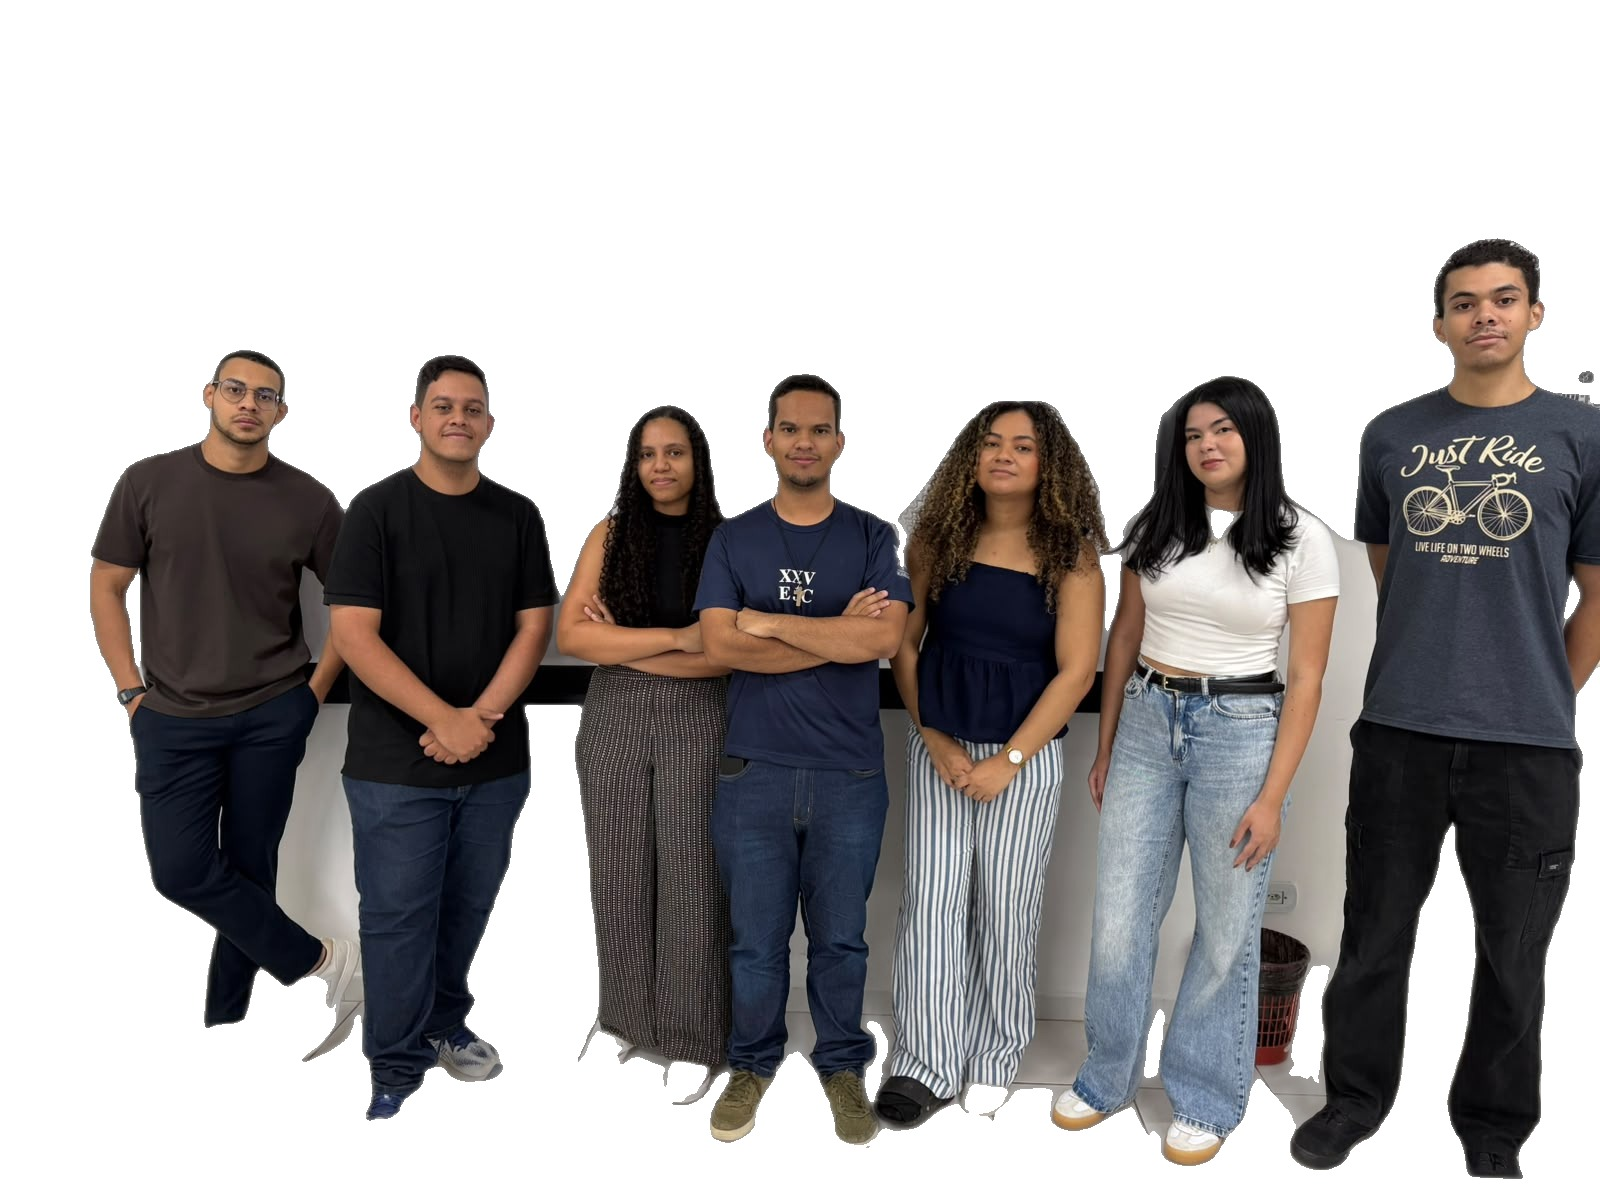
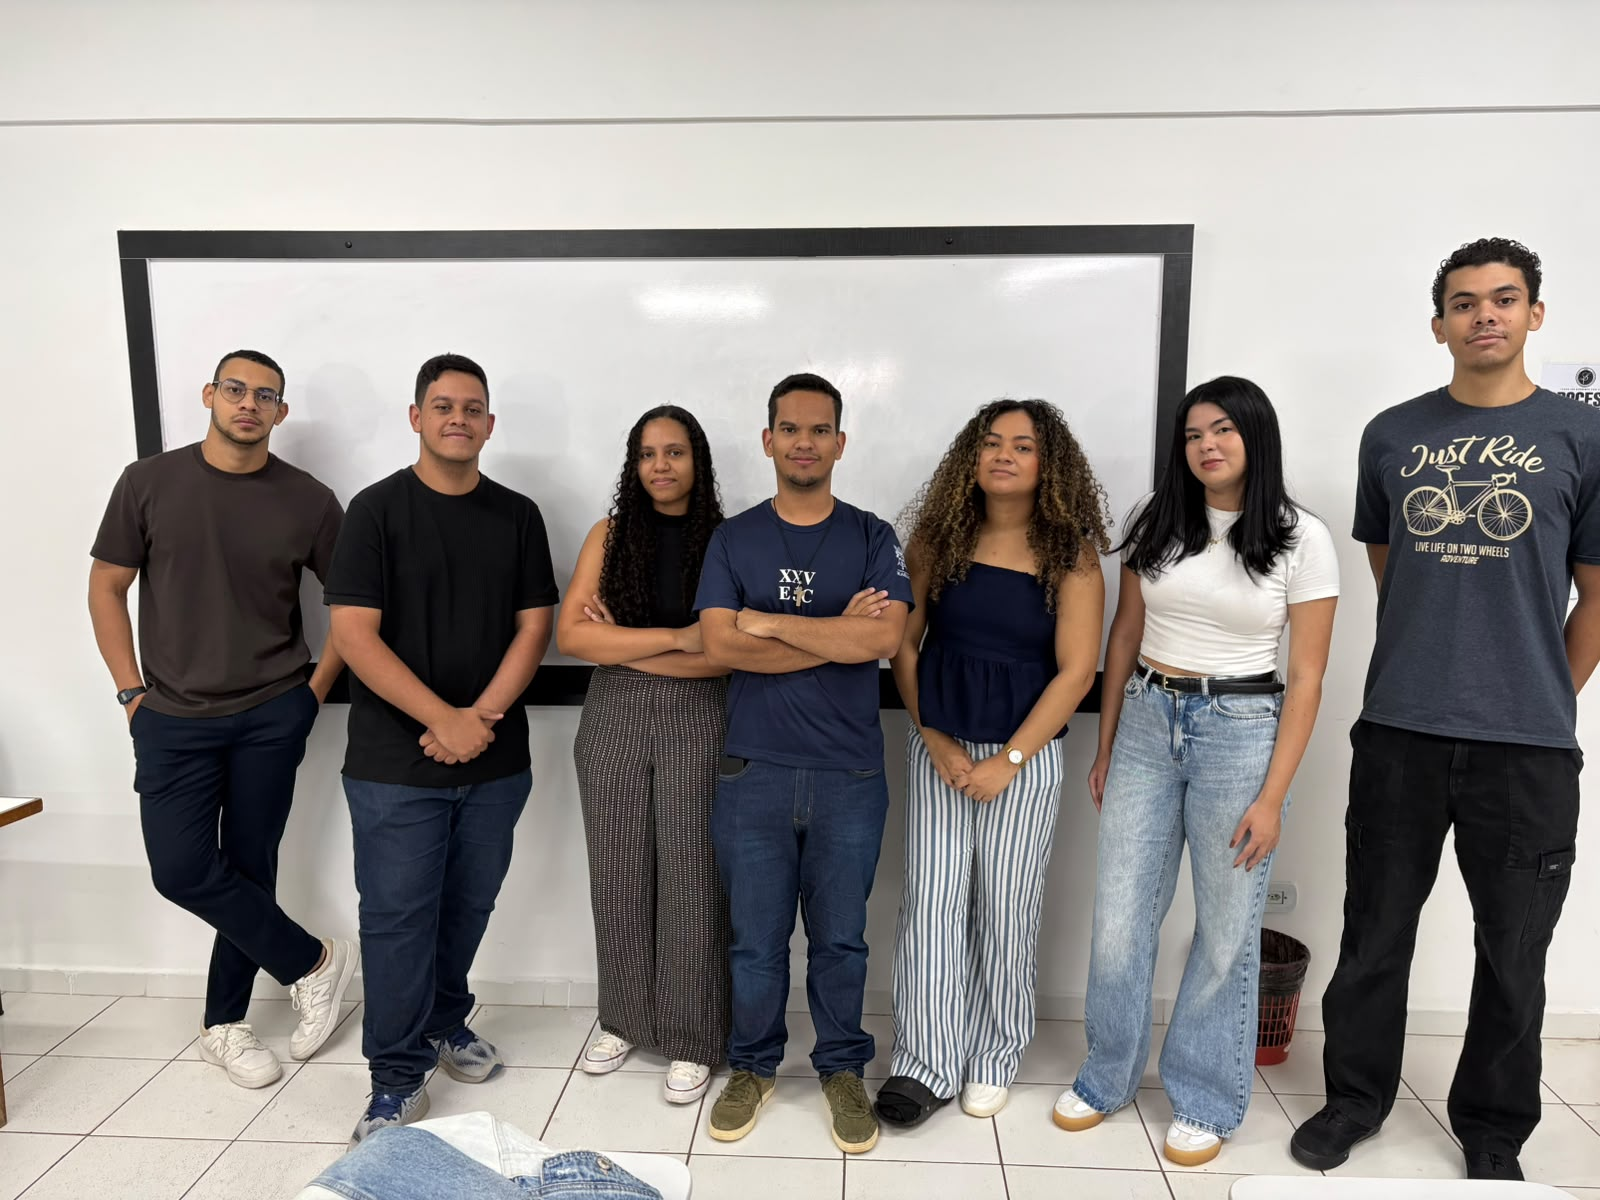
docs: volta foto original, menor e ao lado da tabela da equipe

diff --git a/README.md b/README.md
@@ -39,11 +39,14 @@ Muitas mulheres não reconhecem a violência que sofrem, não conhecem seus dire
 
 ## 👥 Equipe
 
-<div align="center">
-<img src="assets/equipe.jpeg" alt="Equipe do projeto Vitórias" width="45%" />
-</div>
+<table>
+<tr>
+<td width="200" valign="middle">
 
-<br/>
+<img src="assets/equipe.jpeg" alt="Equipe do projeto Vitórias" width="200" />
+
+</td>
+<td valign="middle">
 
 | Integrante | Papel |
 |---|---|
@@ -55,6 +58,10 @@ Muitas mulheres não reconhecem a violência que sofrem, não conhecem seus dire
 | Claudio Manoel Silva Dourado Morais | Tester |
 
 **Orientador:** Prof. Romulo Valadares
+
+</td>
+</tr>
+</table>
 
 <br/>
 
